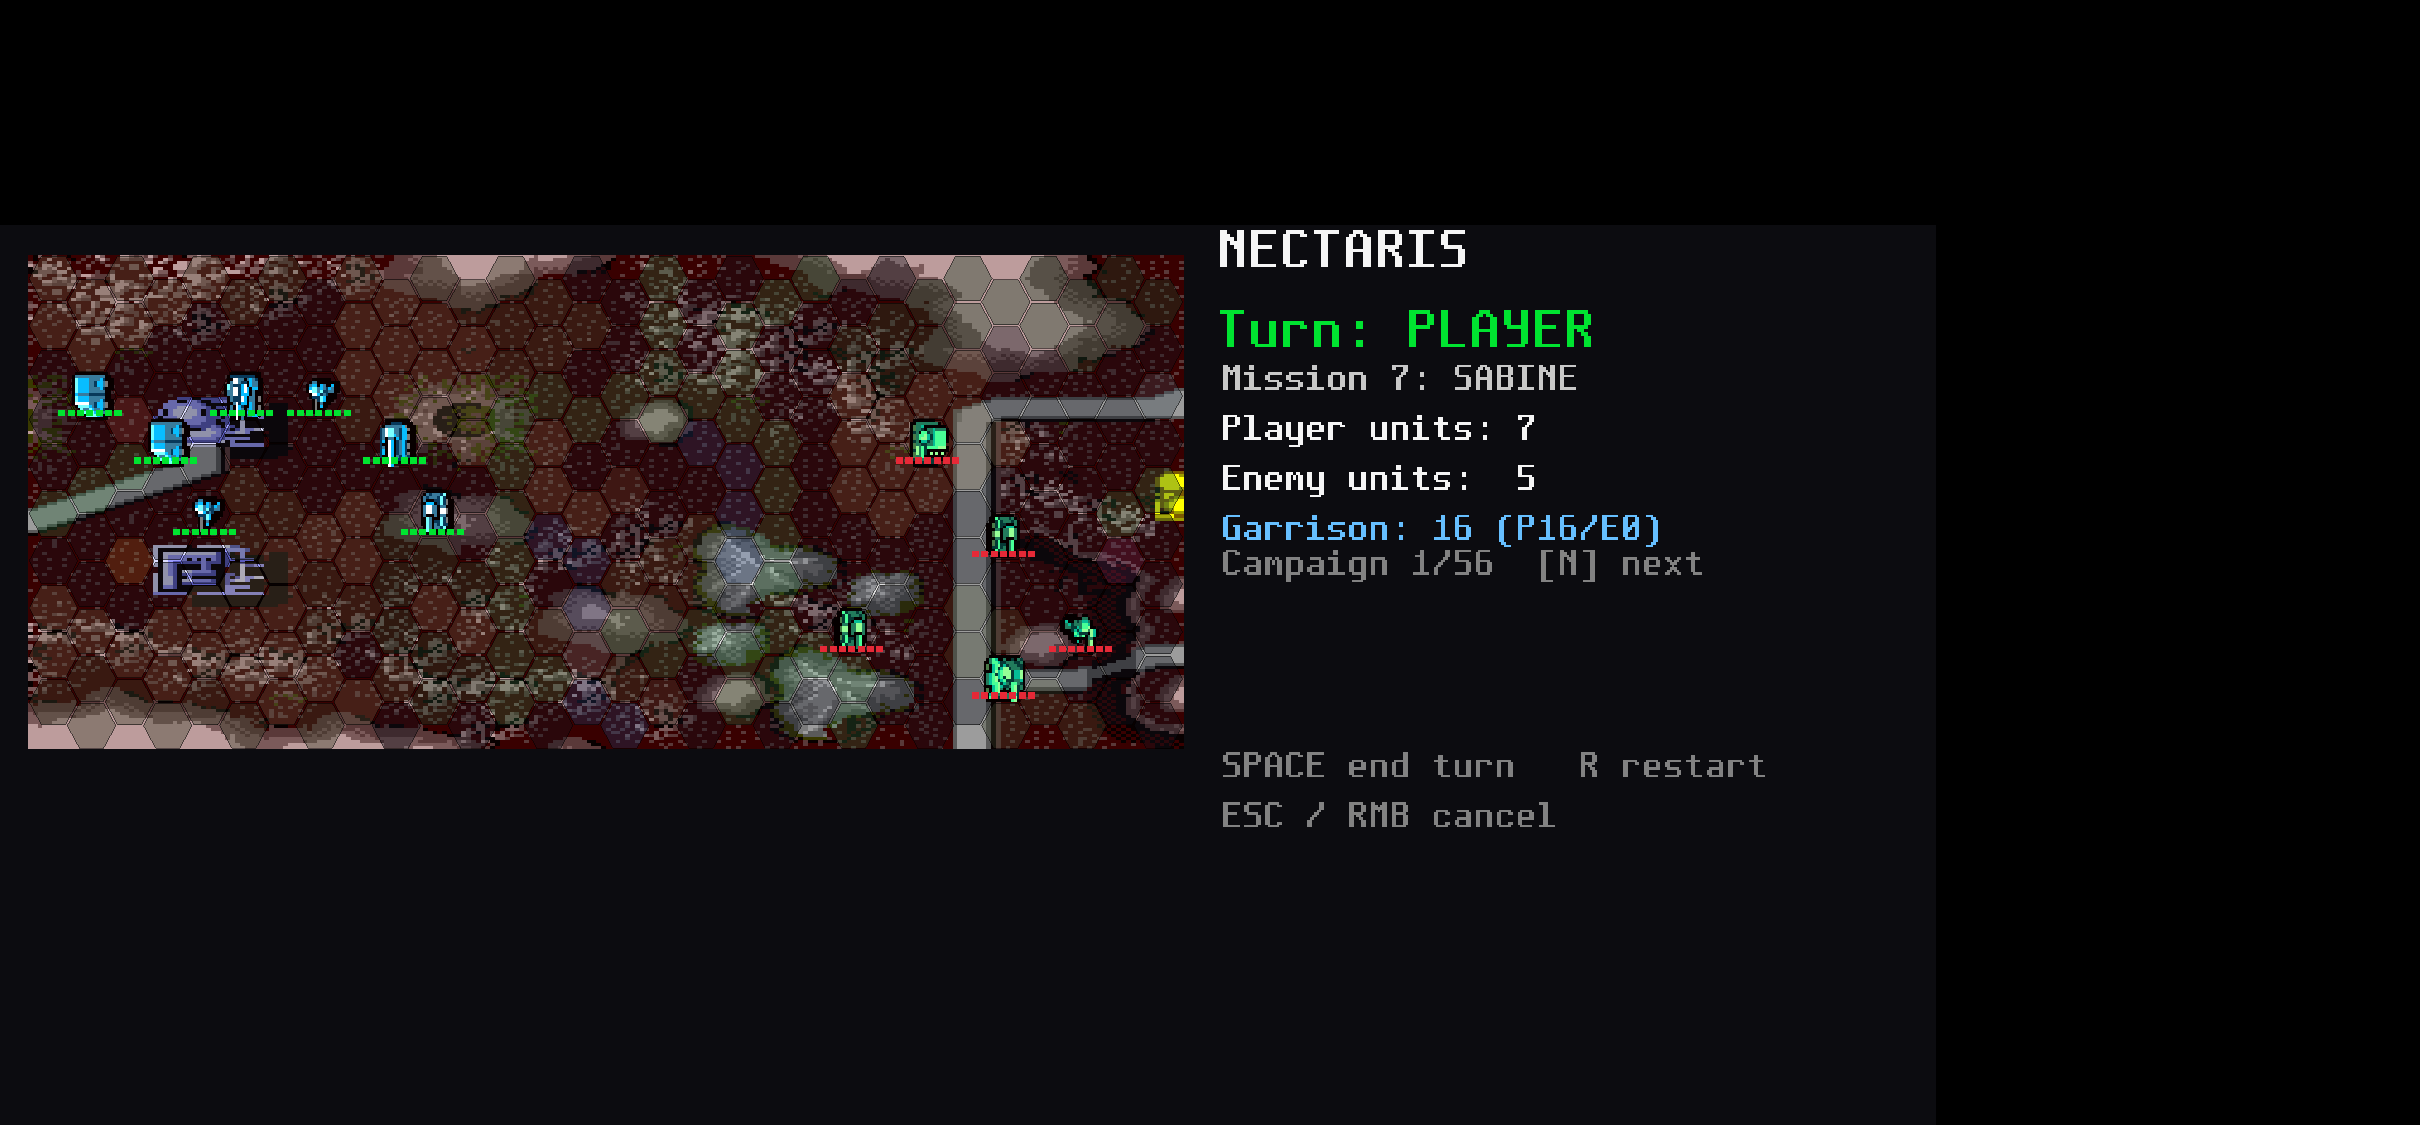
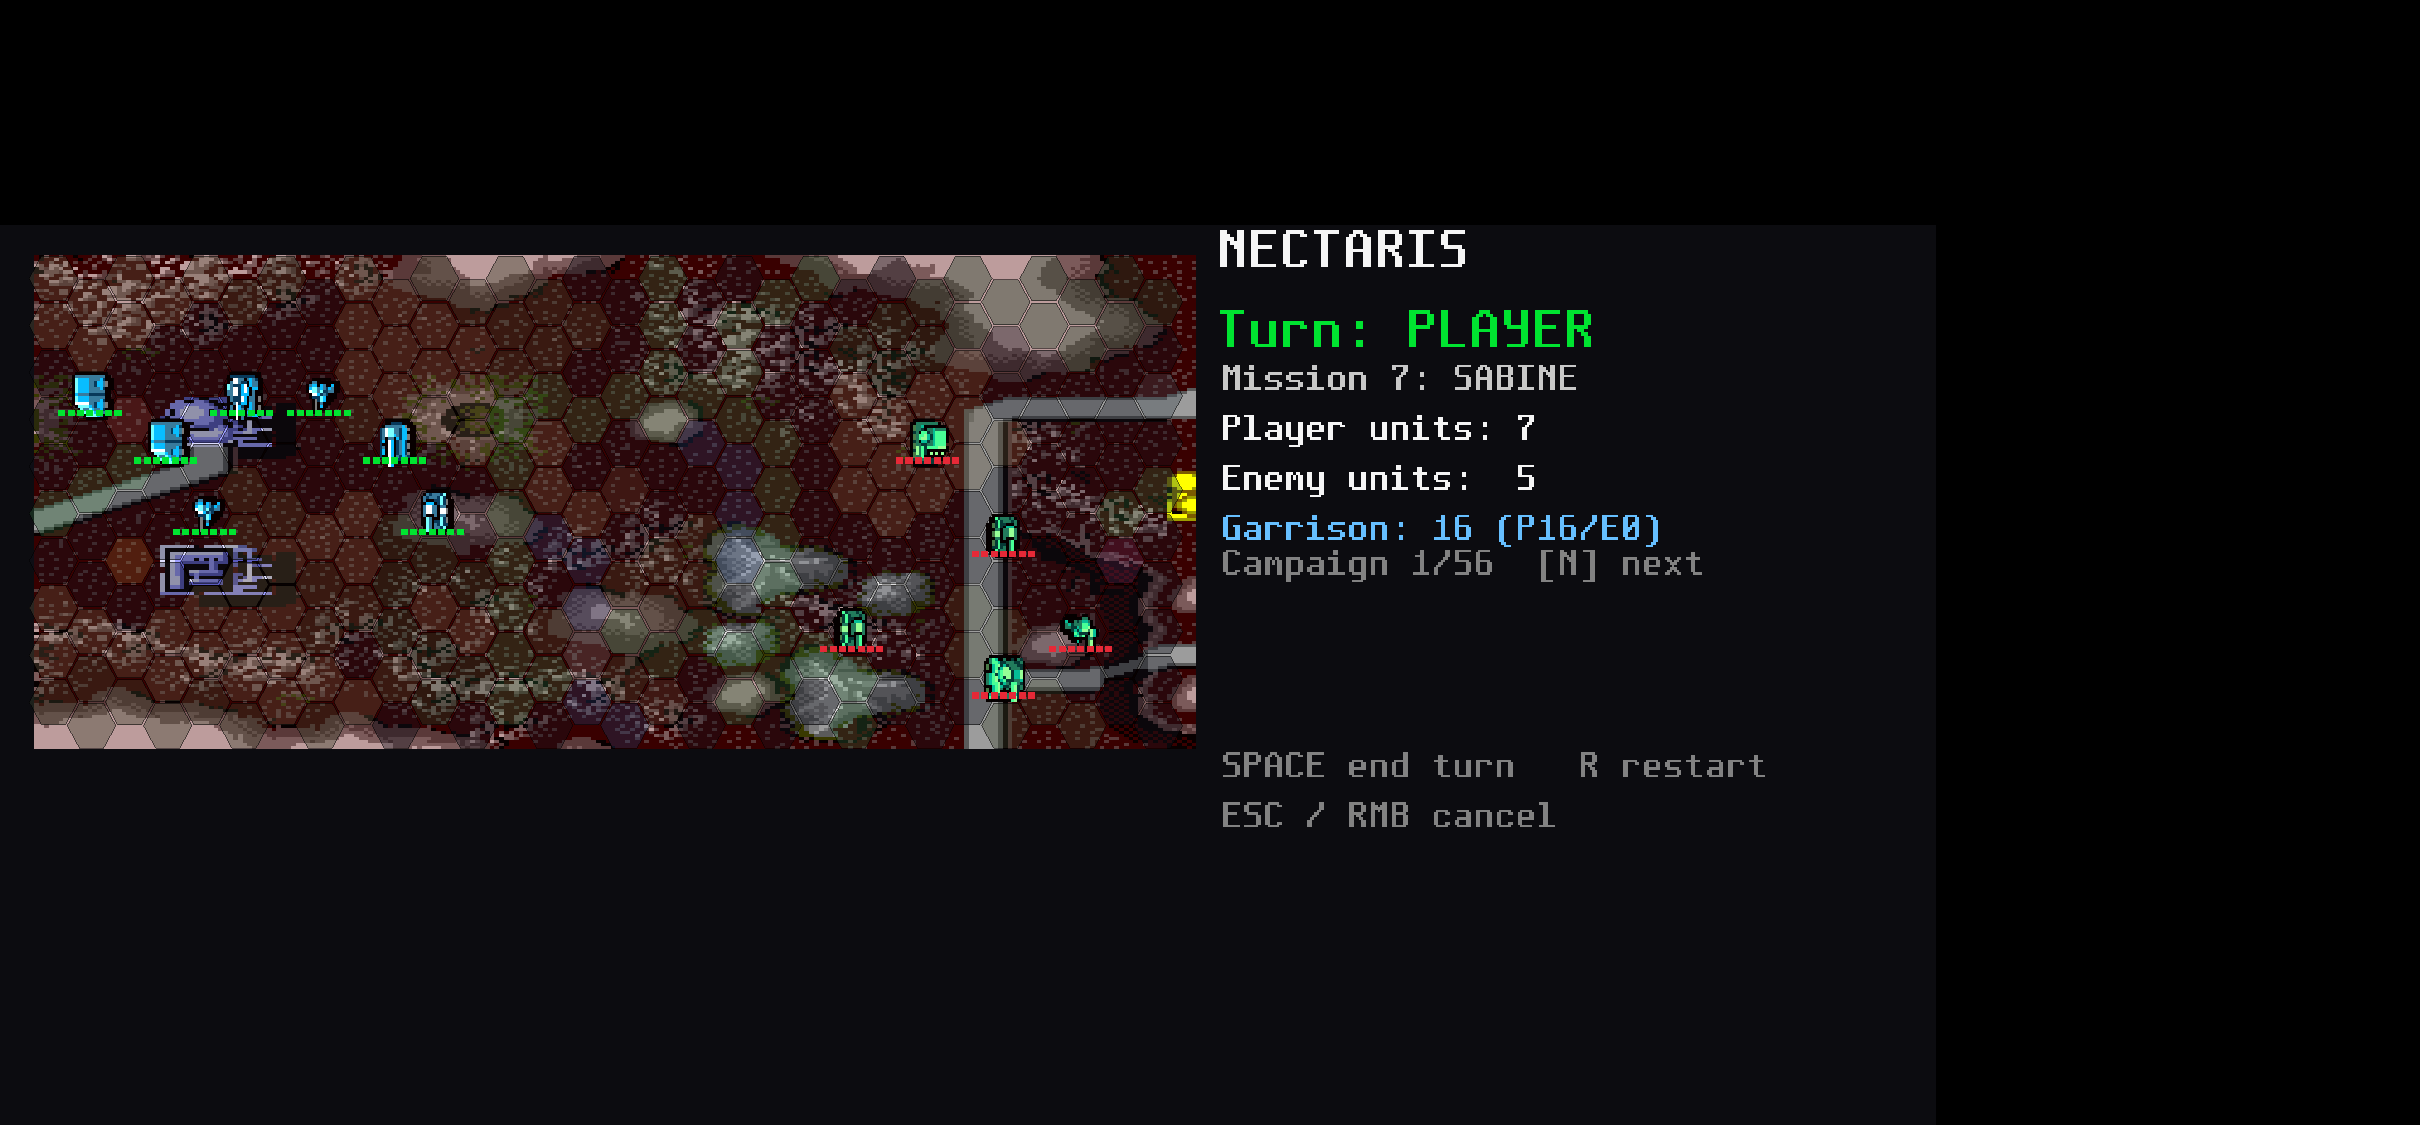
maps: align original backdrops to hex cell centres
Draw the captured map cell grid from the first hex centre, offset half a step right/up, and extend by half a cell so the odd-q bottom/right edge is covered. Regenerate the campaign previews and release.

Changed region(s): [[0.0, 0.2178, 0.4959, 0.6844]]

diff --git a/tools/orig_load_mission.py b/tools/orig_load_mission.py
@@ -166,10 +166,31 @@ def probe_objects():
             print('obj %2d @%#x id=%d sub=%d x=%d y=%d col=%#x' %
                   (i, o, idb, rd(o + 10, 1)[0], x, y, rd(o + 0x14, 1)[0]))
 
+def probe_tilemap():
+    w = rd(0x495c02, 1)[0]
+    h = rd(0x495c03, 1)[0]
+    stride = 16 if w <= 15 else 32
+    rows = 11 if h <= 10 else 22
+    tm = rd(0x4808a8, stride * rows * 2)
+    print('tilemap w/h', w, h, 'stride', stride, 'rows', rows)
+    for y in range(rows):
+        vals = [struct.unpack_from('<H', tm, (y * stride + x) * 2)[0] for x in range(stride)]
+        print('%2d: ' % y + ' '.join('%03x' % v for v in vals))
+
+def hide_structs():
+    # Mission 1's HQ is at cell (2,8); its descriptors live at row 8, x=2..3.
+    w = rd(0x495c02, 1)[0]
+    stride = 16 if w <= 15 else 32
+    plain = rd(0x4808a8 + (8 * stride + 6) * 2, 2)
+    for dx in (1, 2, 3, 4):
+        wr(0x4808a8 + (8 * stride + dx) * 2, plain)
+    rcall_va(0x419e90, 0)
+    time.sleep(0.6)
+
 if len(sys.argv) > 1:
     m = int(sys.argv[1])
     mode = sys.argv[2] if len(sys.argv) > 2 else ''
-    clean = mode in ('clean', 'pan')
+    clean = mode in ('clean', 'pan', 'hide')
     call_mission(m, clean)
     capture('mission_%02d%s' % (m + 1, '_clean' if clean else ''))
     if mode == 'pan':
@@ -181,6 +202,11 @@ if len(sys.argv) > 1:
         capture('mission_%02d_clean_b' % (m + 1))
     if len(sys.argv) > 3 and sys.argv[3] == 'probe':
         probe_objects()
+    if mode == 'tilemap':
+        probe_tilemap()
+    if mode == 'hide':
+        hide_structs()
+        capture('mission_%02d_nostruct' % (m + 1))
 else:
     for m in range(16):
         call_mission(m)

diff --git a/port/src/main.cpp b/port/src/main.cpp
@@ -398,12 +398,15 @@ static void drawHexMap(const Mission& m) {
     ensureBackdrop();
     bool haveBg = gBackdrop.id != 0;
     if (haveBg) {
-        float x0 = gOriginX;
-        float y0 = gOriginY;
-        float x1 = gOriginX + gHexSize * 2.0f + (m.w - 1) * gStepX;
-        float y1 = gOriginY + gHexH + (m.h - 1) * gStepY + gStepY * 0.5f;
+        // Align the original rectangular map cell grid to the hex cell centres.
+        // The hex grid is odd-q offset, so the backdrop sits half a step right
+        // and half a step up from the map origin.
+        float cw = ((float)m.w + 0.5f) * gStepX;
+        float ch = ((float)m.h + 0.5f) * gStepY;
+        float x0 = gOriginX + gHexSize - gStepX * 0.5f;
+        float y0 = gOriginY + gHexH * 0.5f - gStepY * 0.5f;
         DrawTexturePro(gBackdrop, {0, 0, (float)gBackdrop.width, (float)gBackdrop.height},
-                       {x0, y0, x1 - x0, y1 - y0}, {0, 0}, 0, WHITE);
+                       {x0, y0, cw, ch}, {0, 0}, 0, WHITE);
     }
     for (int y = 0; y < m.h; ++y)
         for (int x = 0; x < m.w; ++x) {
